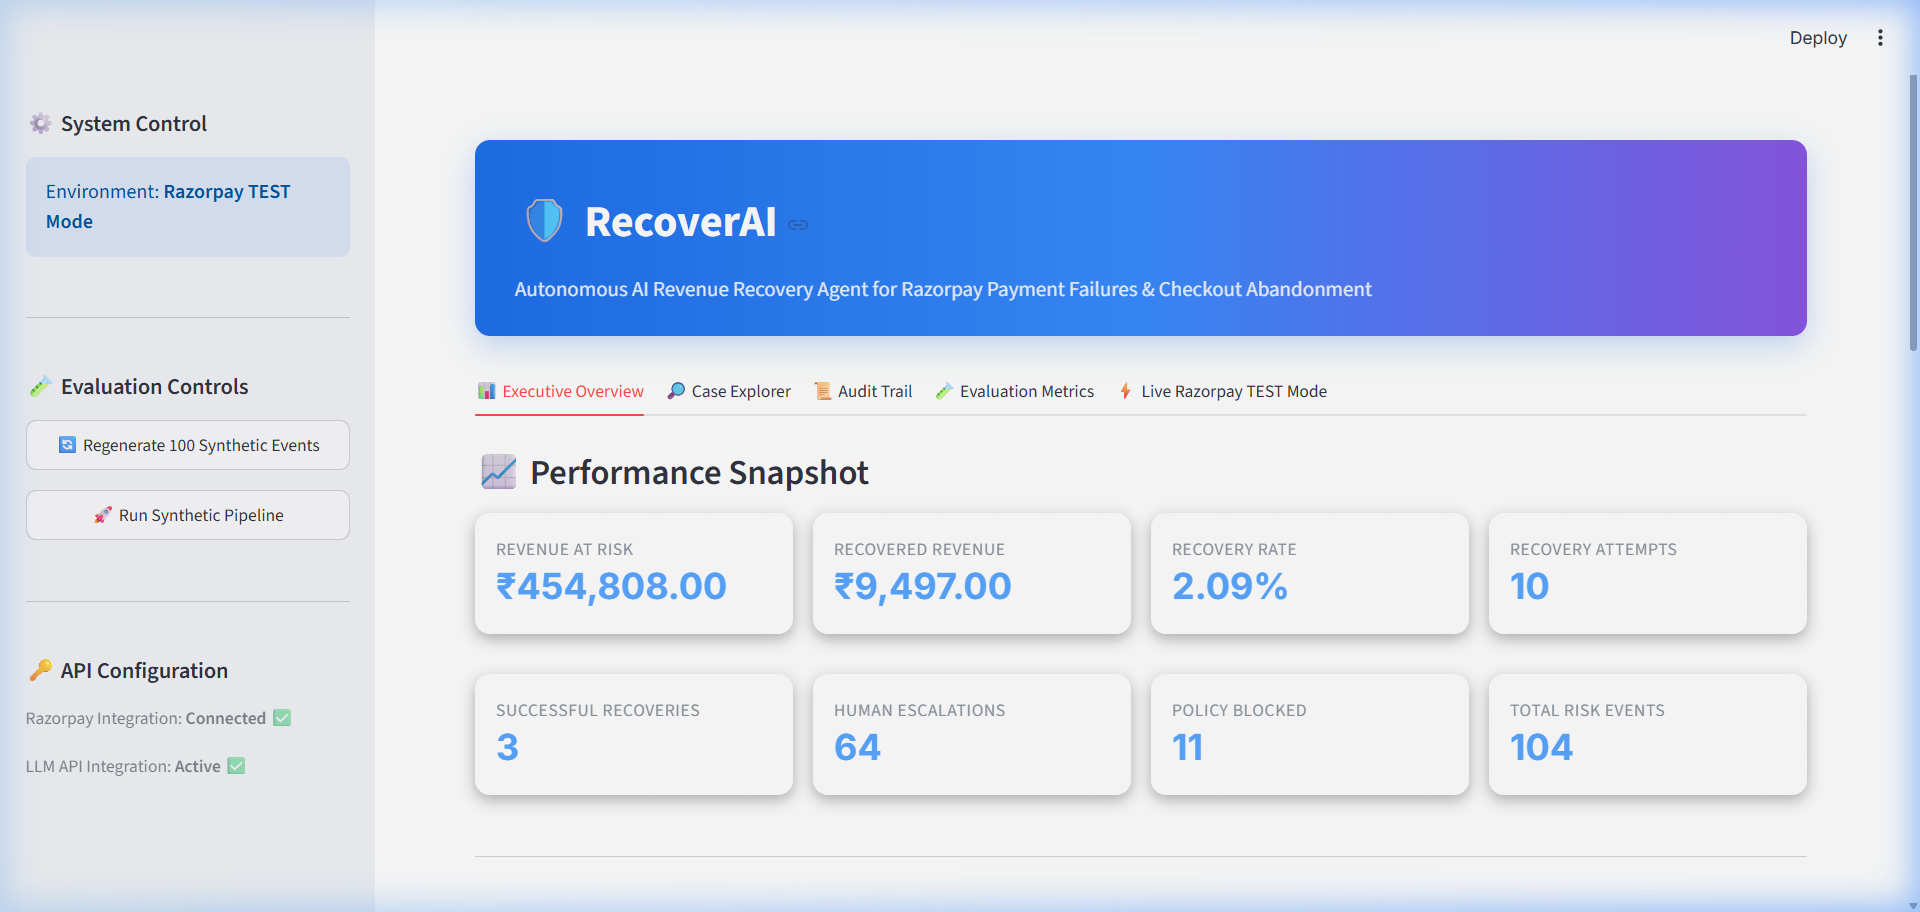
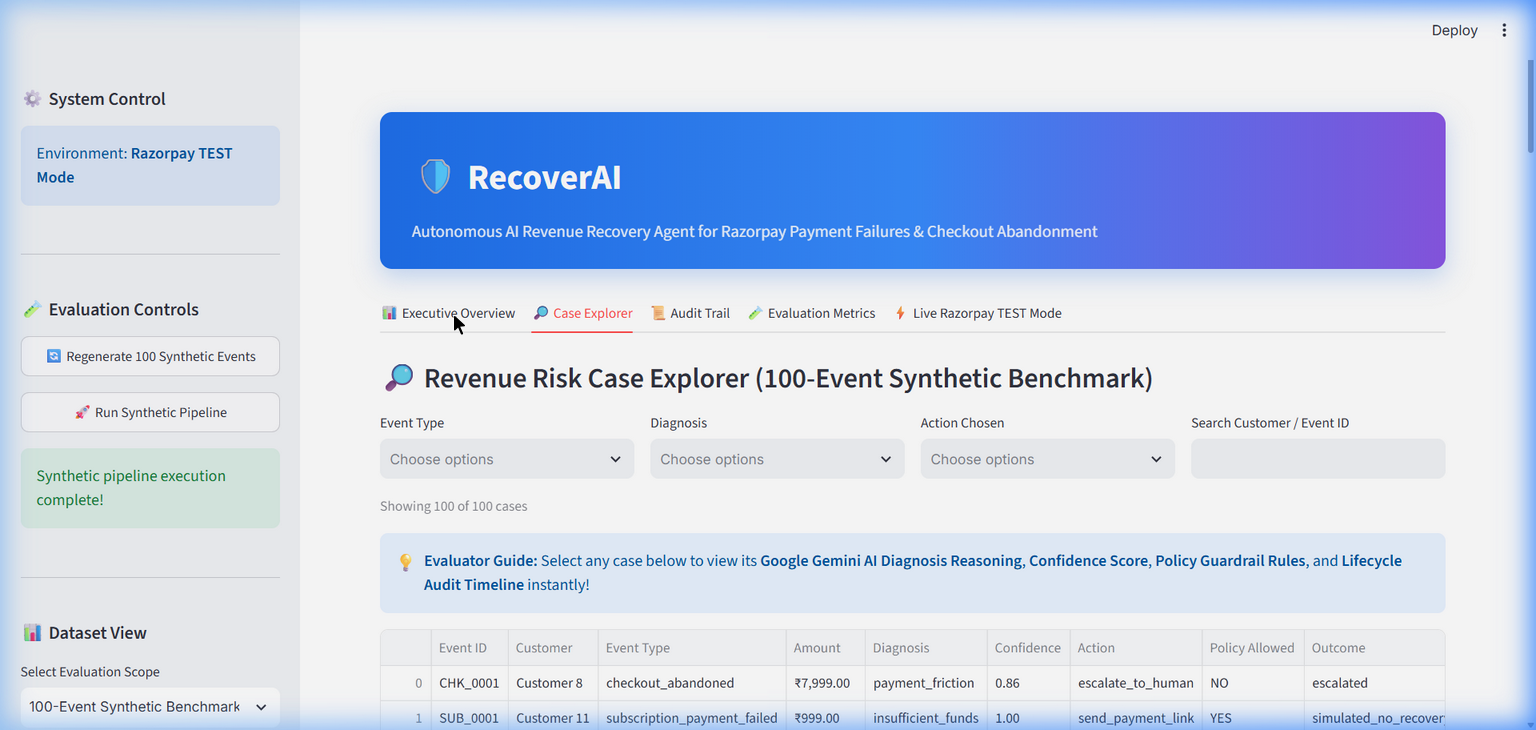
docs: separate synthetic benchmark from live TEST events in dashboard and update README

diff --git a/app.py b/app.py
@@ -270,27 +270,42 @@ def main() -> None:
             st.success("Synthetic pipeline execution complete!")
 
         st.markdown("---")
+        st.markdown("### 📊 Dataset View")
+        dataset_filter = st.selectbox(
+            "Select Evaluation Scope",
+            ["100-Event Synthetic Benchmark", "Live Razorpay TEST Events", "All Events Combined"],
+            index=0,
+        )
+
+        st.markdown("---")
         st.markdown("### 🔑 API Configuration")
         st.caption(f"Razorpay Integration: **{'Connected ✅' if settings.razorpay_enabled else 'Not Configured ⚠'}**")
         st.caption(f"LLM API Integration: **{'Active ✅' if settings.llm_api_key else 'Heuristic Fallback ℹ'}**")
 
     tabs = st.tabs(["📊 Executive Overview", "🔎 Case Explorer", "📜 Audit Trail", "🧪 Evaluation Metrics", "⚡ Live Razorpay TEST Mode"])
 
-    overall_metrics = compute_metrics()
-    synthetic_metrics = compute_metrics(channel="synthetic")
-    razorpay_metrics = compute_metrics(channel="razorpay_test")
+    # Determine active source filter
+    if dataset_filter == "100-Event Synthetic Benchmark":
+        selected_source = "synthetic"
+    elif dataset_filter == "Live Razorpay TEST Events":
+        selected_source = "razorpay_test"
+    else:
+        selected_source = None
+
+    active_metrics = compute_metrics(source=selected_source)
+    synthetic_metrics = compute_metrics(source="synthetic")
 
     # TAB 1: EXECUTIVE OVERVIEW
     with tabs[0]:
-        st.subheader("📈 Performance Snapshot")
-        render_metrics_cards(overall_metrics)
+        st.subheader(f"📈 Performance Snapshot ({dataset_filter})")
+        render_metrics_cards(active_metrics)
         st.markdown("---")
-        render_charts(overall_metrics)
+        render_charts(active_metrics)
 
     # TAB 2: CASE EXPLORER
     with tabs[1]:
-        st.subheader("🔎 Revenue Risk Case Explorer")
-        raw_cases = list_cases()
+        st.subheader(f"🔎 Revenue Risk Case Explorer ({dataset_filter})")
+        raw_cases = list_cases(source=selected_source)
         if not raw_cases:
             st.info("No recovery cases recorded. Click 'Run Synthetic Pipeline' in the sidebar.")
         else:

diff --git a/db.py b/db.py
@@ -376,9 +376,15 @@ def update_customer_state(customer_id: str, increment_attempts: bool = False, es
         )
 
 
-def list_cases() -> list[dict[str, Any]]:
+def list_cases(source: str | None = None) -> list[dict[str, Any]]:
+    where_clause = ""
+    params: tuple[Any, ...] = ()
+    if source:
+        where_clause = "WHERE e.source = ?"
+        params = (source,)
+
     rows = fetch_all(
-        """
+        f"""
         SELECT
             e.event_id,
             e.customer_name,
@@ -387,6 +393,7 @@ def list_cases() -> list[dict[str, Any]]:
             e.amount,
             e.currency,
             e.created_at,
+            e.source,
             d.diagnosis,
             d.diagnosis_confidence,
             d.diagnosis_reasoning,
@@ -412,8 +419,10 @@ def list_cases() -> list[dict[str, Any]]:
                 GROUP BY event_id
             ) ra2 ON ra1.event_id = ra2.event_id AND ra1.created_at = ra2.max_created_at
         ) ra ON ra.event_id = e.event_id
+        {where_clause}
         ORDER BY e.created_at DESC
-        """
+        """,
+        params,
     )
     return [dict(row) for row in rows]
 

diff --git a/report.py b/report.py
@@ -6,17 +6,18 @@ from typing import Any
 from db import fetch_all
 
 
-def compute_metrics(channel: str | None = None) -> dict[str, Any]:
+def compute_metrics(source: str | None = None, channel: str | None = None) -> dict[str, Any]:
+    filter_val = source or channel
     where_clause = ""
     params: tuple[Any, ...] = ()
-    if channel:
-        where_clause = "WHERE ra.channel = ?"
-        params = (channel,)
+    if filter_val:
+        where_clause = "WHERE e.source = ?"
+        params = (filter_val,)
 
     rows = fetch_all(
         f"""
         SELECT e.event_id, e.amount, e.event_type, d.action_chosen, d.outcome, d.amount_recovered, d.policy_allowed,
-               d.diagnosis, ra.status, ra.channel
+               d.diagnosis, ra.status, ra.channel, e.source
         FROM events e
         LEFT JOIN decisions d ON d.event_id = e.event_id
         LEFT JOIN (

diff --git a/README.md b/README.md
@@ -181,9 +181,9 @@ RecoverAI evaluates synthetic batch benchmark performance separately from live i
 ### 1. Synthetic 100-Event Benchmark Dataset
 - **Total Events:** 100 benchmark events (60 subscription failures + 40 checkout abandonments across 24 customer profiles).
 - **Revenue at Risk:** `₹450,812.00`
-- **Simulated Recovered Revenue:** `₹9,497.00`
-- **Synthetic Recovery Rate:** `2.11%`
-- **Policy Enforcement Outcomes:** 32 human escalations and 15 policy-blocked events correctly identified.
+- **Simulated Recovered Revenue:** `₹28,493.00`
+- **Synthetic Recovery Rate:** `6.32%`
+- **Policy Enforcement Outcomes:** 41 human escalations, 8 policy-blocked events, and 27 scheduled retries.
 
 ### 2. Live Razorpay TEST Mode Sandbox Integration
 - **Interactive TEST Events:** 4 live events generated during UI sandbox testing.
